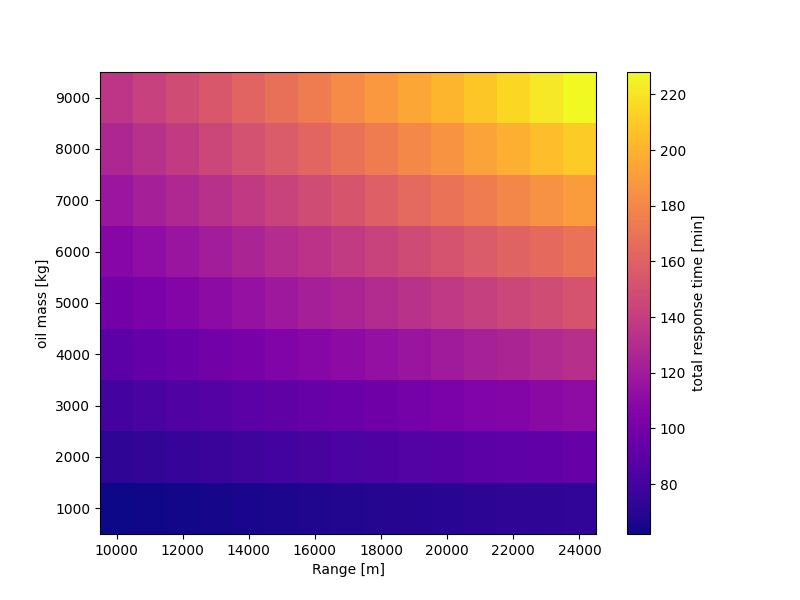
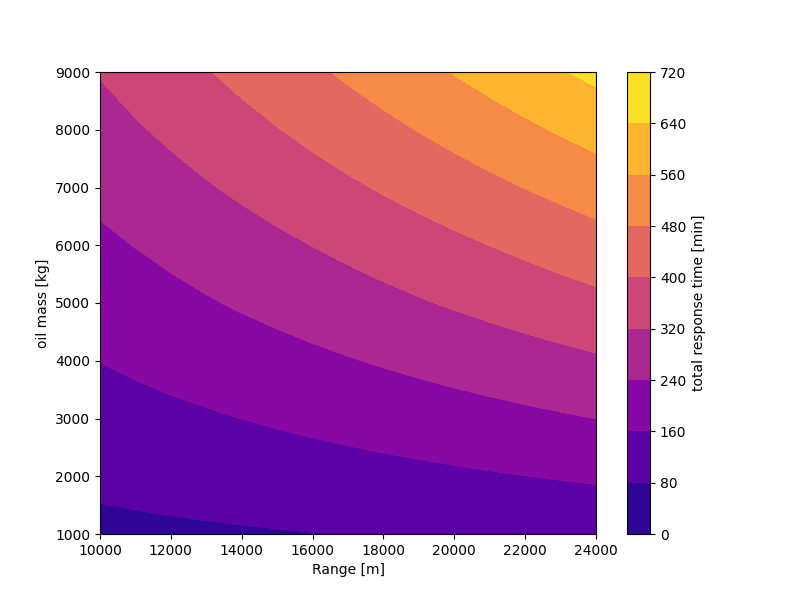
Added stuc sens plot

diff --git a/DetailedDesign/mission.py b/DetailedDesign/mission.py
@@ -78,7 +78,7 @@ class Mission:
         self.mission_type = inputs['mission_type']
         self.mission_perimeter = inputs["mission_perimeter"] #We define, mission perimeter [m] 
         self.oil_mass = inputs["oil_mass"]
-        self.aerogel_absorption_factor = 50 #g/g https://www.sciencedirect.com/science/article/pii/S2213343722002299, https://www.sciencedirect.com/science/article/pii/S1385894715002326#:~:text=50%20°C.-,Abstract,their%20high%20oil%20absorption%20capacities.
+        self.aerogel_absorption_factor = 14 #g/g 
         self.R_max = inputs["R_max"] # Maximum range [m]: mission definition
         self.R_min = inputs["R_min"]
 
@@ -203,6 +203,7 @@ class Mission:
         self.time_cruise = self.R_max / (self.V_cruise - self.wind_speed) # Slowest-case scenario, wind against the UAV
         self.time_cruise_min = self.R_min / (self.V_cruise + self.wind_speed) # Fastest-case scenario, wind with the UAV
 
+
         if self.verbose:
             print(f"Time Ascent: {self.time_ascent} seconds")
             print(f"Time Descent: {self.time_descent} seconds")
@@ -233,14 +234,10 @@ class Mission:
 
     def calc_UAV_runs(self):
 
-        print("RAN calc_UAV_runs()")
 
         if self.mission_type == "wildfire":
-            print(self.mission_perimeter)
-
             # For wildfire
             self.nr_runs_fire = Deployment(self.inputs, 'perimeter', self.mission_perimeter).perimeter_creation()
-            print(self.nr_runs_fire)
             self.num_trips = self.nr_runs_fire
 
         elif self.mission_type == "oil_spill":
@@ -249,18 +246,17 @@ class Mission:
             self.nr_runs_oil = math.ceil((self.oil_mass / self.aerogel_absorption_factor) / aerogel_mass)
             self.num_trips = self.nr_runs_oil
 
+
         else:
             raise ValueError(f"Unsupported mission type: {self.mission_type}")
         
         if self.verbose:
             print(f"Number of trips for mission: {self.num_trips}")
 
-        print(f"Number of trips {self.num_trips}")
-
 
     def calc_time_operation(self) -> float:
 
-        print("RAN calc_time_operation()")
+        #print("RAN calc_time_operation()")
 
         self.uav_mission_time()
         self.calc_UAV_runs()
@@ -340,6 +336,8 @@ class Mission:
 
         #reset all the values in self
         return self.total_mission_time, self.time_operation
+    
+
 
 
     # ~~~ Output functions ~~~ 
@@ -381,7 +379,7 @@ if __name__ == '__main__':
     test_inputs_mission = {
         "number_of_UAVs": 20,
         "number_of_containers": 3,
-        "capacity_gen": 6,
+        "capacity_gen": 5,
         "capacity_nogen": 10,
         "number_of_workers": 4,
         "margin": 60,
@@ -409,16 +407,16 @@ if __name__ == '__main__':
     }
     test_inputs_mission.update(deployment_funny_inputs)  # Update with deployment inputs
 
-    mission = Mission(test_inputs_mission)
+    mission = Mission(test_inputs_mission, verbose=True)
 
     mission.mission_type = 'wildfire'
     # mission.mission_perimeter = 500
     mission.calc_total_mission_time()
-    print(round(mission.total_mission_time) / 60)
+    print('AAA', round(mission.total_mission_time))
 
     mission.mission_type = 'oil_spill'
     mission.calc_total_mission_time()
-    print(round(mission.total_mission_time) / 60) 
+    print('AAA', round(mission.total_mission_time)) 
 
 
     

diff --git a/DetailedDesign/subsystems/structures.py b/DetailedDesign/subsystems/structures.py
@@ -627,6 +627,46 @@ class Structures:
             if abs(buckling_stress) > abs(yield_strength) * safety_factor: 
                 break 
         return rib_placement
+    
+
+    def FEM_sensitivity_plots(self):
+        n = [3.5, 3.6, 3.7, 3.8, 3.9, 4.0]
+        von_mises = [32206000, 33125000, 34075000, 34963000, 35882000, 36801000]
+        normal = [35804000, 36826000, 37822000, 38869000, 39891000, 40913000]
+        shear = [5056800, 5199700, 5348900, 5488300, 5632500, 5776800]
+        deformation = [0.019065, 0.01961, 0.020173, 0.02069, 0.021243, 0.021787]
+
+        fig, axs = plt.subplots(2, 2, figsize=(12, 8))
+
+        # Plot Von Mises
+        axs[0, 0].plot(n, von_mises, marker='o')
+        axs[0, 0].set_title("Von Mises Stress")
+        axs[0, 0].set_xlabel("n")
+        axs[0, 0].set_ylabel("Von Mises [Pa]")
+
+        # Plot Normal
+        axs[0, 1].plot(n, normal, marker='o', color='orange')
+        axs[0, 1].set_title("Normal Stress")
+        axs[0, 1].set_xlabel("n")
+        axs[0, 1].set_ylabel("Normal [Pa]")
+
+        # Plot Shear
+        axs[1, 0].plot(n, shear, marker='o', color='green')
+        axs[1, 0].set_title("Shear Stress")
+        axs[1, 0].set_xlabel("n")
+        axs[1, 0].set_ylabel("Shear [Pa]")
+
+        # Plot Deformation
+        axs[1, 1].plot(n, deformation, marker='o', color='red')
+        axs[1, 1].set_title("Deformation")
+        axs[1, 1].set_xlabel("n")
+        axs[1, 1].set_ylabel("Deformation [m]")
+
+        # Layout adjustment
+        plt.tight_layout(rect=[0, 0.03, 1, 0.95])
+        plt.savefig('DetailedDesign\subsystems\Plots\Sensitivity_wing_stuctures.png')
+        plt.show()
+
 
     # ~~~ Output functions ~~~
 
@@ -657,10 +697,11 @@ class Structures:
 
 if __name__ == "__main__":  # pragma: no cover
     a = Structures(fi)
-    #print(a.determine_VTOL_boom_thickness())
-    a.NVM_VTOL()
-    a.NVM_cruise()
-    a.NVM_propeller_boom()
+    # #print(a.determine_VTOL_boom_thickness())
+    # a.NVM_VTOL()
+    # a.NVM_cruise()
+    # a.NVM_propeller_boom()
     # a.sandwich()
-    print(a.VTOL_boom_mass)
+    #print(a.VTOL_boom_mass)
     # print(a.determine_fuselage_thickness())
+    a.FEM_sensitivity_plots()

diff --git a/DetailedDesign/performance.py b/DetailedDesign/performance.py
@@ -158,15 +158,16 @@ class Performance:
                         mis.number_of_containers = nests
                         mis.calc_total_mission_time()
 
-                        if workers == workers_range[0] and (uavs == 23 or uavs == 24):
-                            print(vars(mis))  
                         dep_time = mis.total_mission_time / (60*60)
-                        print(dep_time * 60)
                         if strat == 'oil_spill':
                             unit = '[kg/h]'
                             uav_worker_table.loc[workers, uavs] = round(self.oil_mass / dep_time)
+                            if uavs == 20 and workers == 6:
+                                print('oil', round(self.oil_mass / dep_time))
                         else:
                             unit = '[m/h]'
+                            if uavs == 20 and workers == 6:
+                                print('fire', round(self.mission_perimeter / dep_time))
                             if nests <= workers <= 2 * nests:
                                 uav_worker_table.loc[workers, uavs] = round(self.mission_perimeter / dep_time)
                             else:
@@ -219,7 +220,7 @@ if __name__ == '__main__':
     test_inputs_performance = {
         "number_of_UAVs": 20,
         "number_of_containers": 3,
-        "capacity_gen": 6,
+        "capacity_gen": 5,
         "capacity_nogen": 10,
         "number_of_workers": 6,
         "margin": 60,

diff --git a/DetailedDesign/funny_inputs.py b/DetailedDesign/funny_inputs.py
@@ -82,9 +82,9 @@ deployment_funny_inputs = {
     "epm_duration": 8.0,  # s, maximum OFF-mode duration
     "power_required_winch": 96.0,  # W, follows from PSDK protocol of DJI (24V/4A)
     "deployment_accuracy": 0.5,  # m, guesstimate
-    "firebreak_width": 3,  # m
+    "firebreak_width":3,  # m
     "fuselage_size": 1.5,  # m, guesstimate
-    "mission_perimeter": 100, # m
+    # "mission_perimeter": 100, # m
     "nr_aerogels": 30,
 }
 
